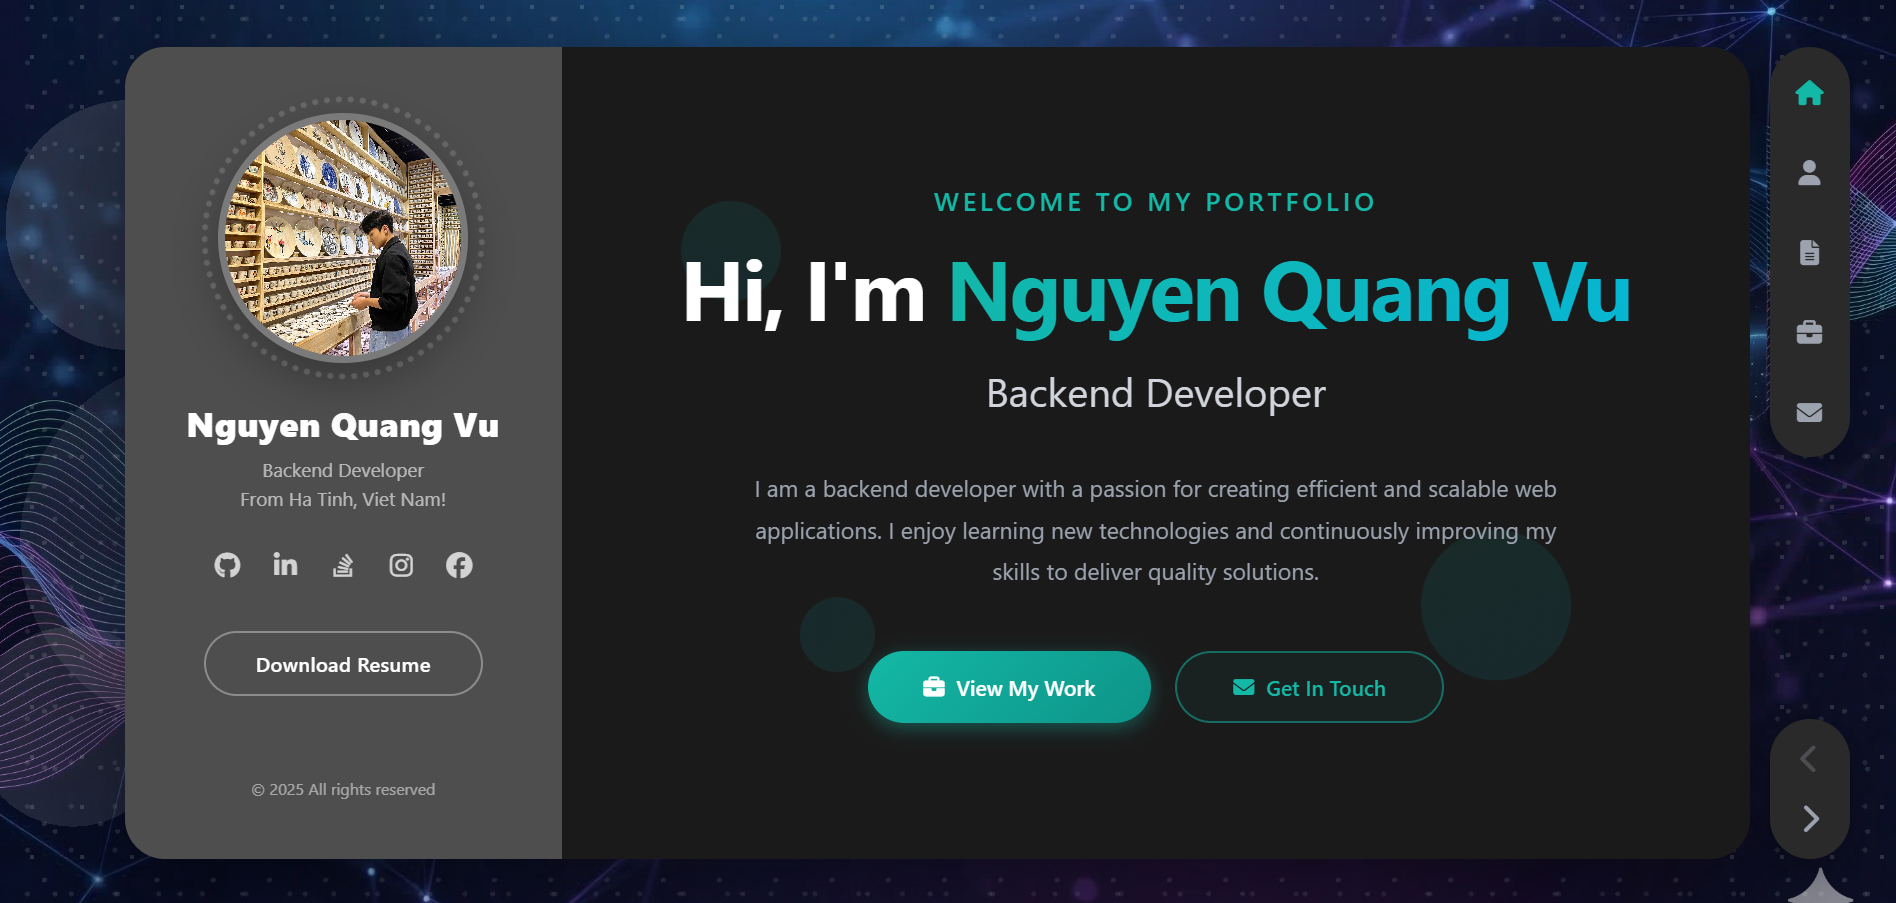
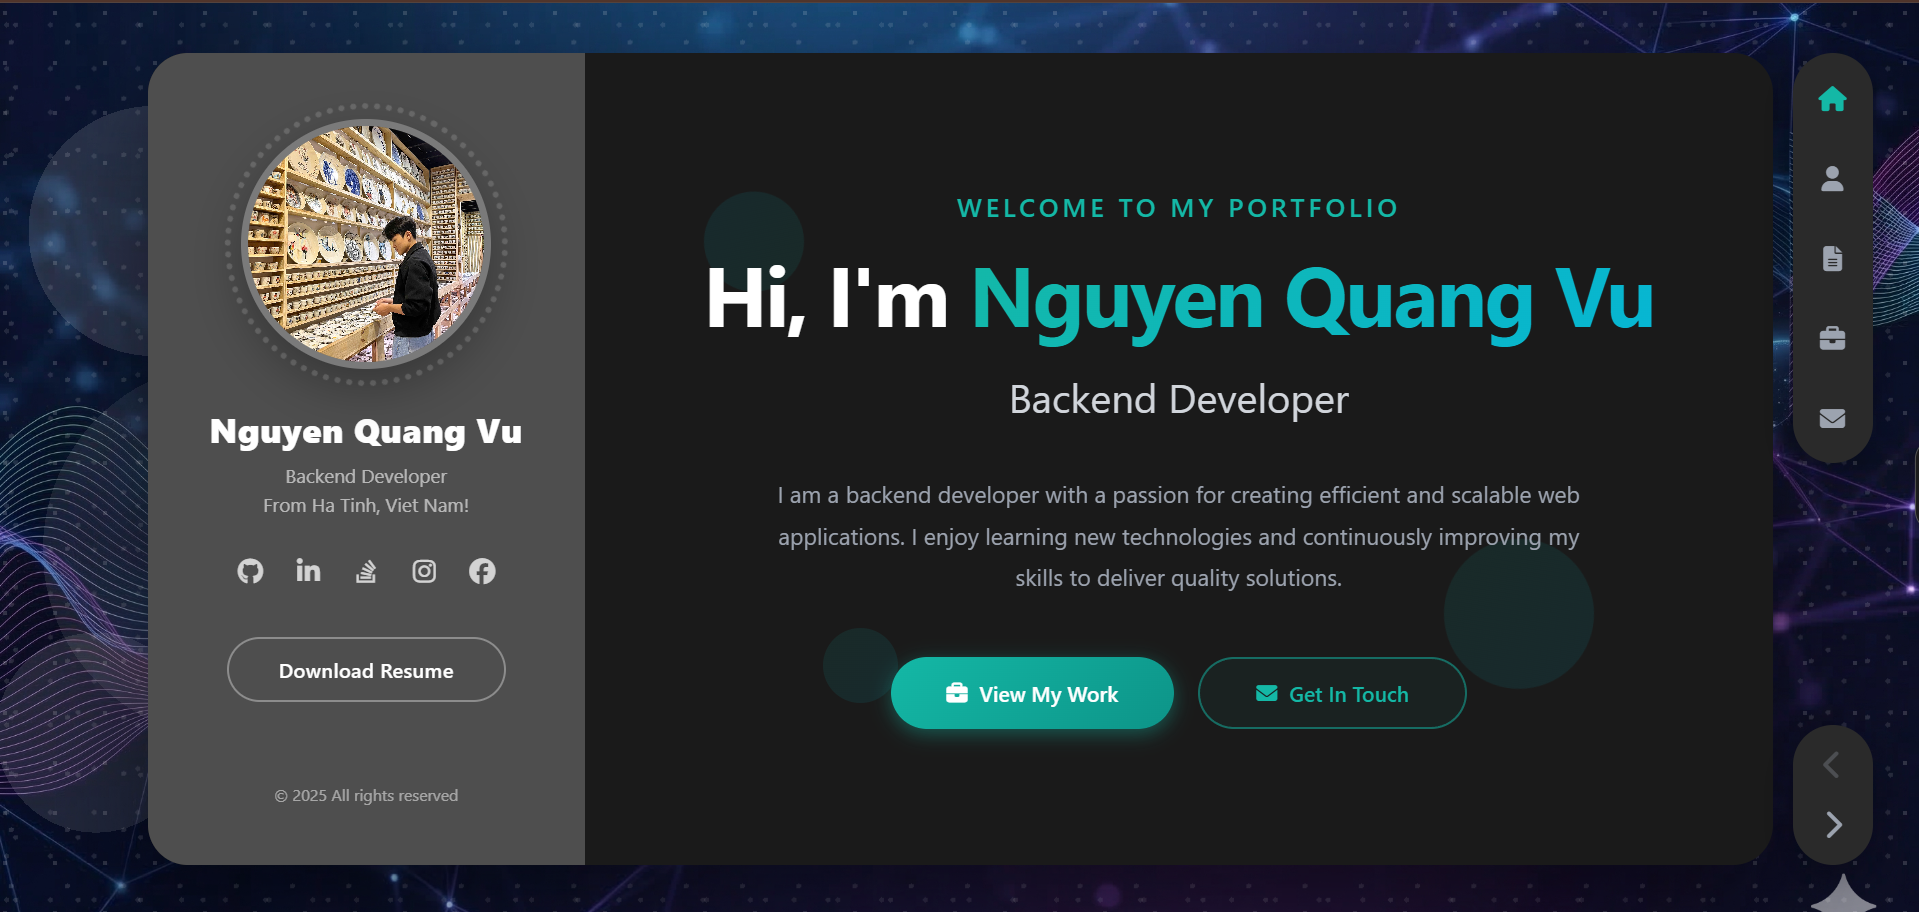
update portfolio image format from JPG to PNG

diff --git a/core/views.py b/core/views.py
@@ -81,7 +81,7 @@ PROJECTS = [
         'description': 'Personal portfolio website showcasing projects and skills. Built with Django and deployed on Vercel.',
         'category': 'Website',
         'tech_stack': 'Django, Tailwind CSS',
-        'image': '/media/projects/portfolio.jpg',
+        'image': '/media/projects/portfolio.png',
         'github_link': 'https://github.com/yourusername/portfolio',
         'live_demo': '',
     },
